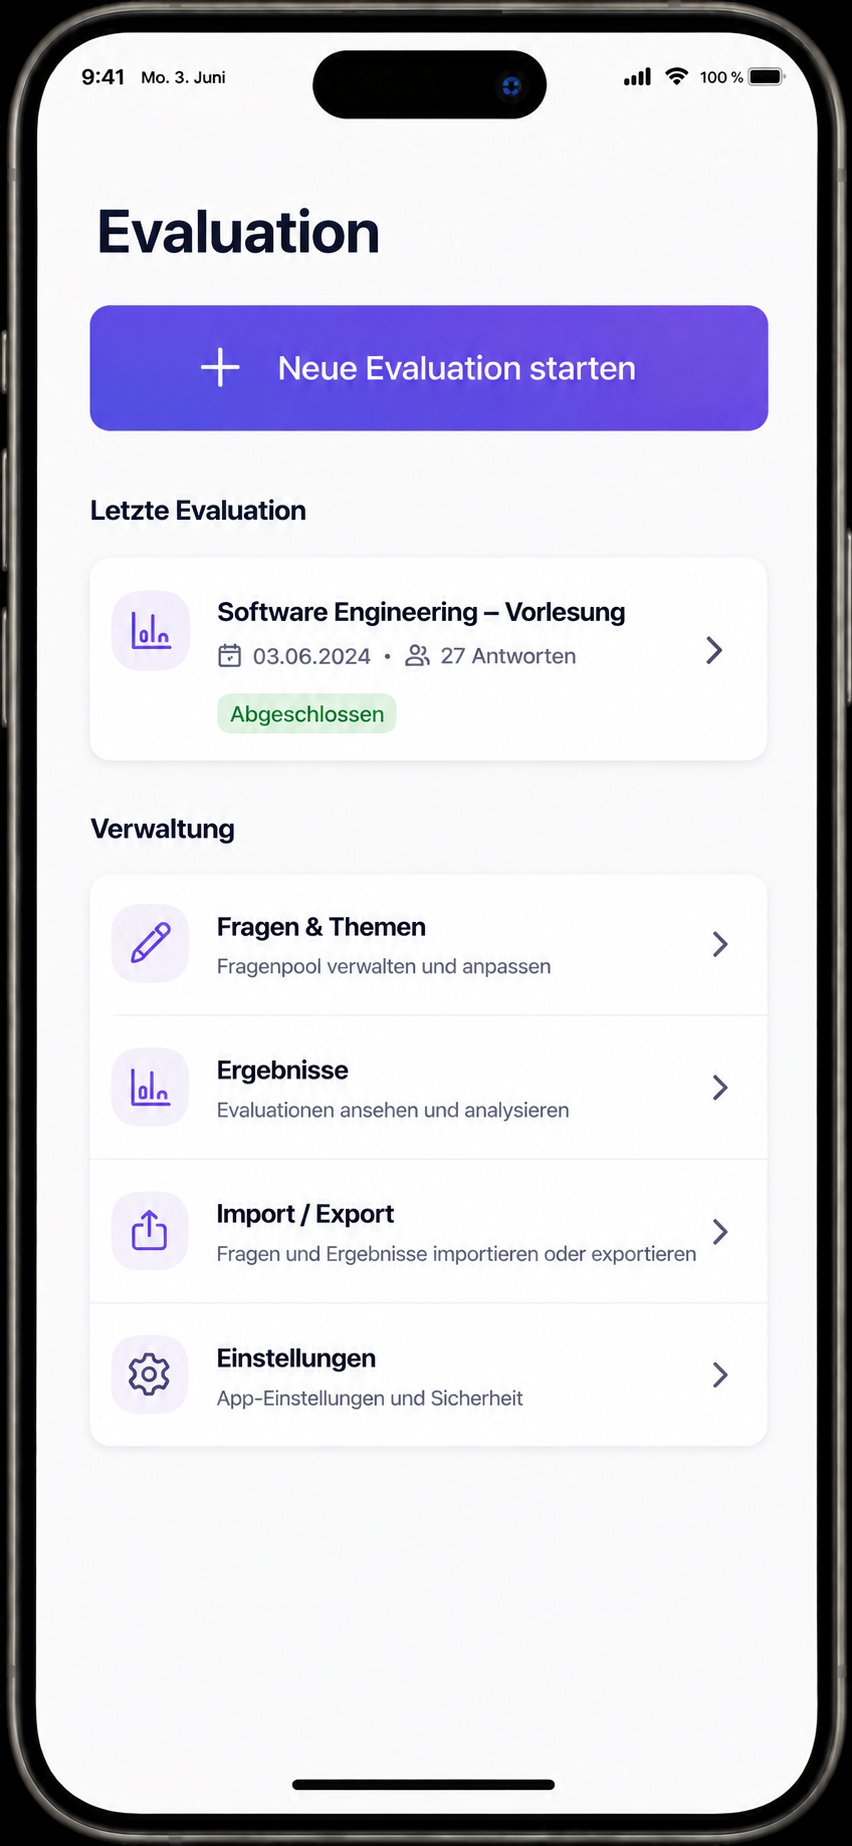
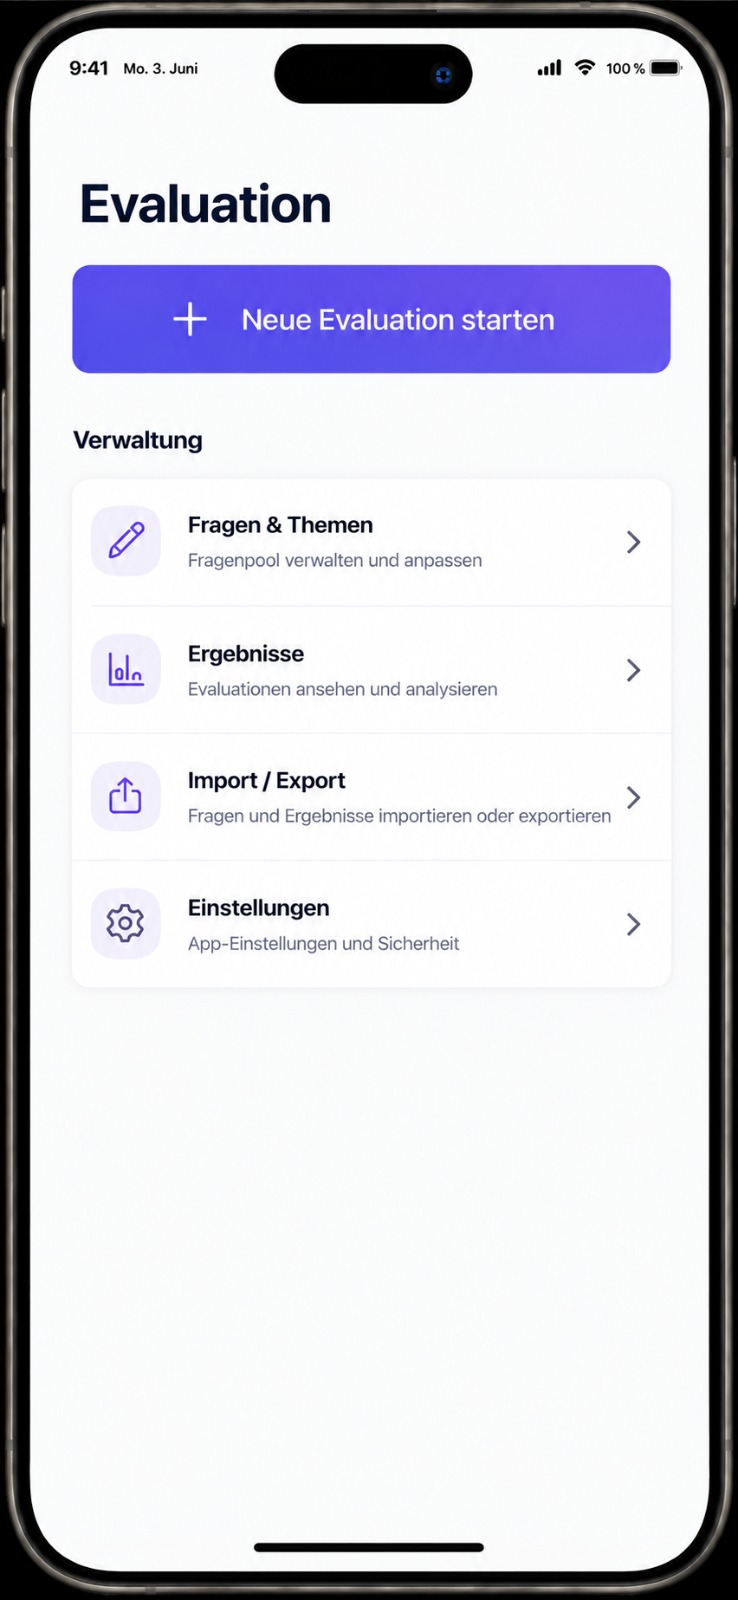
Aktualisiere Mockup

diff --git a/lib/pages/createEvaluationPage.dart b/lib/pages/createEvaluationPage.dart
@@ -1,0 +1,88 @@
+import 'package:flutter/material.dart';
+import 'package:horizontal_stepper_flutter/horizontal_stepper_flutter.dart';
+
+int currentStep = 0;
+
+class createEvaluationPage extends StatelessWidget {
+  createEvaluationPage({super.key});
+
+  final steps = [
+    (title: 'Thema', page: topicStep()),
+    (title: 'Fragen', page: questionSelectionStep()),
+    (title: 'Starten', page: startEvaluationStep()),
+  ];
+
+  @override
+  Widget build(BuildContext context) {
+    return Scaffold(
+        appBar: AppBar(title: Text("Neue Evaluation", style: TextStyle(fontWeight: FontWeight.bold, fontSize: 25))),
+        body: Padding(
+            padding: const EdgeInsets.all(16),
+            child: Column(
+              children: [
+                creationStepper(steps: steps.map((elefsment) => element.title).toList(), currentStep: currentStep + 1),
+                steps[currentStep].page,
+                ElevatedButton(onPressed: () {
+                  setState(() {});
+
+                }, child: Text("Nächster Schritt"))
+              ],
+            )
+        )
+    );
+  }
+}
+
+class creationStepper extends StatelessWidget {
+  final List<String> steps;
+  final int currentStep;
+  const creationStepper({required this.steps, required this.currentStep, super.key});
+
+  @override
+  Widget build(BuildContext context) {
+    return FlutterHorizontalStepper(steps: steps, radius: 45, currentStep: currentStep, child: [
+      Text("1"),
+      Text("2"),
+      Text("3")
+    ]);
+  }
+}
+
+class topicStep extends StatelessWidget {
+  const topicStep({super.key});
+
+  @override
+  Widget build(BuildContext context) {
+    return Row(
+      children: [
+        Text("Step 1"),
+      ],
+    );
+  }
+}
+
+class questionSelectionStep extends StatelessWidget {
+  const questionSelectionStep({super.key});
+
+  @override
+  Widget build(BuildContext context) {
+    return Row(
+      children: [
+        Text("Step 2"),
+      ],
+    );
+  }
+}
+
+class startEvaluationStep extends StatelessWidget {
+  const startEvaluationStep({super.key});
+
+  @override
+  Widget build(BuildContext context) {
+    return Row(
+      children: [
+        Text("Step 3")
+      ],
+    );
+  }
+}

diff --git a/lib/main.dart b/lib/main.dart
@@ -1,4 +1,5 @@
 import 'package:flutter/material.dart';
+import 'package:lectura/pages/createEvaluationPage.dart';
 import 'variables.dart';
 import 'package:flutter/services.dart';
 import 'pages/settingsPage.dart';
@@ -86,7 +87,7 @@ class lecturaApp extends StatelessWidget {
               onPressed: () {
                 Navigator.of(context, rootNavigator: true).push(
                   MaterialPageRoute(
-                    builder: (context) => settingsPage(),
+                    builder: (context) => createEvaluationPage(),
                   ),
                 );
               },

diff --git a/README.md b/README.md
@@ -14,9 +14,9 @@ dart pub get
 
 ## Mockup (Pretotype)
 
-| Landing Page                       | Create new Evaluation                         | Question Selection                             | Start Evaluation                             | Evaluation Page                                 | End Evaluation                                | Evaluation Diagrams                             |
-|------------------------------------|-----------------------------------------------|------------------------------------------------|----------------------------------------------|-------------------------------------------------|-----------------------------------------------|-------------------------------------------------|
-| ![](assets/Mockup_Lading_Page.png) | ![](assets/Mockup_Create_Evaluation_Page.png) | ![](assets/Mockup_Question_Selection_Page.png) | ![](assets/Mockup_Evaluation_Start_Page.png) | ![](assets/Mockup_Evaluation_Question_Page.png) | ![](assets/Mockup_Evaluation_Ending_Page.png) | ![](assets/Mockup_Evaluation_Diagram_Page.png)  |
+| Landing Page                       | Create new Evaluation                         | Question Selection                             | Start Evaluation                             | Evaluation Page                                 | End Evaluation                                | Evaluation Diagrams                             | History Page                                   | Import / Export Page                      | Settings Page                        |
+|------------------------------------|-----------------------------------------------|------------------------------------------------|----------------------------------------------|-------------------------------------------------|-----------------------------------------------|-------------------------------------------------|------------------------------------------------|-------------------------------------------|--------------------------------------|
+| ![](assets/Mockup_Lading_Page.png) | ![](assets/Mockup_Create_Evaluation_Page.png) | ![](assets/Mockup_Question_Selection_Page.png) | ![](assets/Mockup_Evaluation_Start_Page.png) | ![](assets/Mockup_Evaluation_Question_Page.png) | ![](assets/Mockup_Evaluation_Ending_Page.png) | ![](assets/Mockup_Evaluation_Diagram_Page.png)  | ![](assets/Mockup_Evaluation_History_Page.png) | ![](assets/Mockup_Import_Export_Page.png) | ![](assets/Mockup_Settings_Page.png) |
 
 > Mockup created with OpenAI ChatGPT 5
 
